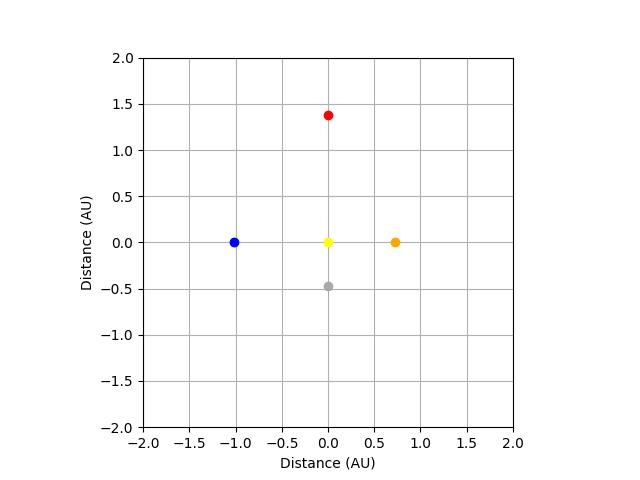
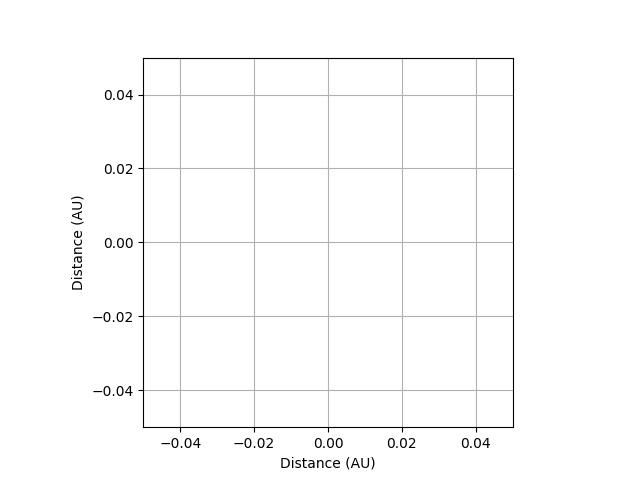
AJAX for switching focused body added.

diff --git a/Templates/RunSimulationPage.html b/Templates/RunSimulationPage.html
@@ -144,7 +144,7 @@
         </button>
 
         <button class="change_focus_button"
-                onclick="window.location.href='/run/1/0/{{reverseSimulation}}/1'">
+                id="focusButton">
             Focus Next Body
         </button>
 
@@ -163,7 +163,7 @@
             <p>Simulation Display Size: {{simulationSizeKM}}km / {{simulationSizeAU}}AU</p>
             <p>Days Per Simulation Tick: {{daysPerTick}}</p>
             <p id="daysElapsedBox">Simulation Days Elapsed: {{daysElapsed}}</p>
-            <p>Focused Body: {{focusBodyName}}</p>
+            <p id="focusBodyBox">Focused Body: {{focusBodyName}}</p>
             <p>Simulation Iteration Reversed: {{isSimulationInReverse}}</p>
         </div>
 
@@ -187,8 +187,9 @@
                 cache: false,
 
                 success: function(data) {
-                    var cacheBustURL = data.updatedImageURL + '?' + Date.now();
-                    $("#simImage").attr('src', cacheBustURL);
+                    // Add date to the request to make the client re-request it
+                    var modifiedURL = data.updatedImageURL + '?' + Date.now();
+                    $("#simImage").attr('src', modifiedURL);
                     $("#daysElapsedBox").text("Simulation Days Elapsed: " + data.daysElapsed);
                 },
 
@@ -198,6 +199,26 @@
                 }
             });
         }
+
+        $('#focusButton').click(function(event) {
+            event.preventDefault();
+            $.ajax({
+                url: '/focus/',
+                type: 'get',
+                cache: false,
+
+                success: function(data) {
+                    // Add date to the request to make the client re-request it
+                    var modifiedURL = data.updatedImageURL + '?' + Date.now();
+                    $("#simImage").attr('src', modifiedURL);
+                    $("#focusBodyBox").text("Focused Body: " + data.focusBodyName);
+                },
+
+                error: function() {
+                    alert("Error in changing focus.");
+                }
+            });
+        });
 
     </script>
 {% endblock %}

diff --git a/PlanetaryOrbitSimulator/views.py b/PlanetaryOrbitSimulator/views.py
@@ -357,6 +357,14 @@ def runSimulation(request, dontRunSimulation = 0, autoRunSimulation = 0, reverse
     return constructedResponse
 
 def stopSimulation(request, reverseSimulation):
+    # Load/create a database entry of the simulation
+    storedSim, existingSimLoaded = loadSimulationEntry(request)
+
+    # Load a PlanetarySimulationEngine() object (either from session/database or new from template)
+    simulationEngine, setTicks = loadSimulationEngine(request, storedSim)
+
+    runSimulationTick(request, simulationEngine, storedSim, 0, 1, setTicks)
+
     context = {"reverseSimulation": reverseSimulation}
     return render(request, "stopSimulationPage.html", context)
 
@@ -368,12 +376,27 @@ def updateSimulationImage(request):
     # Load a PlanetarySimulationEngine() object (either from session/database or new from template)
     simulationEngine, setTicks = loadSimulationEngine(request, storedSim)
 
-    storedSim, simulationEngine, infoForm = makeSimulationForm(request, storedSim, simulationEngine)
-
     storedSim, simulationEngine, isSimulationInReverse, switchReverseSimulation = (
         runSimulationTick(request, simulationEngine, storedSim, 0, 0, setTicks))
 
     daysElapsed = round((simulationEngine.simulationTime / 86400) * simulationEngine.secondsPerSimulationTick, 2)  # Simulation time in days
     updatedImageURL = "/media/latestSimulation" + user.username + ".jpeg"
     constructedResponse = JsonResponse({"updatedImageURL": updatedImageURL, "daysElapsed": daysElapsed})
+    return constructedResponse
+
+def changeSimulationFocus(request):
+    user = request.user
+    # Load/create a database entry of the simulation
+    storedSim, existingSimLoaded = loadSimulationEntry(request)
+
+    # Load a PlanetarySimulationEngine() object (either from session/database or new from template)
+    simulationEngine, setTicks = loadSimulationEngine(request, storedSim)
+
+    simulationEngine.focusBody = simulationEngine.focusBody + 1
+    simulationEngine.updateFocusPoint()
+
+    runSimulationTick(request, simulationEngine, storedSim, 0, 1, setTicks)
+
+    updatedImageURL = "/media/latestSimulation" + user.username + ".jpeg"
+    constructedResponse = JsonResponse({"updatedImageURL": updatedImageURL, "focusBodyName": simulationEngine.focusBodyName})
     return constructedResponse

diff --git a/PlanetaryOrbitSimulator/urls.py b/PlanetaryOrbitSimulator/urls.py
@@ -33,6 +33,7 @@ urlpatterns = [
     path('run/<int:dontRunSimulation>/<int:autoRunSimulation>/<int:reverseSimulation>/<int:changeFocusBody>', views.runSimulation),
     path('edit/<int:selectedBody>', views.editSimulationPage),
     path('stop/<int:reverseSimulation>', views.stopSimulation),
+    path('focus/', views.changeSimulationFocus),
     path('update/', views.updateSimulationImage, name="update"),
     path('login/', views.loginPage),
     path('register/', views.registerPage),
